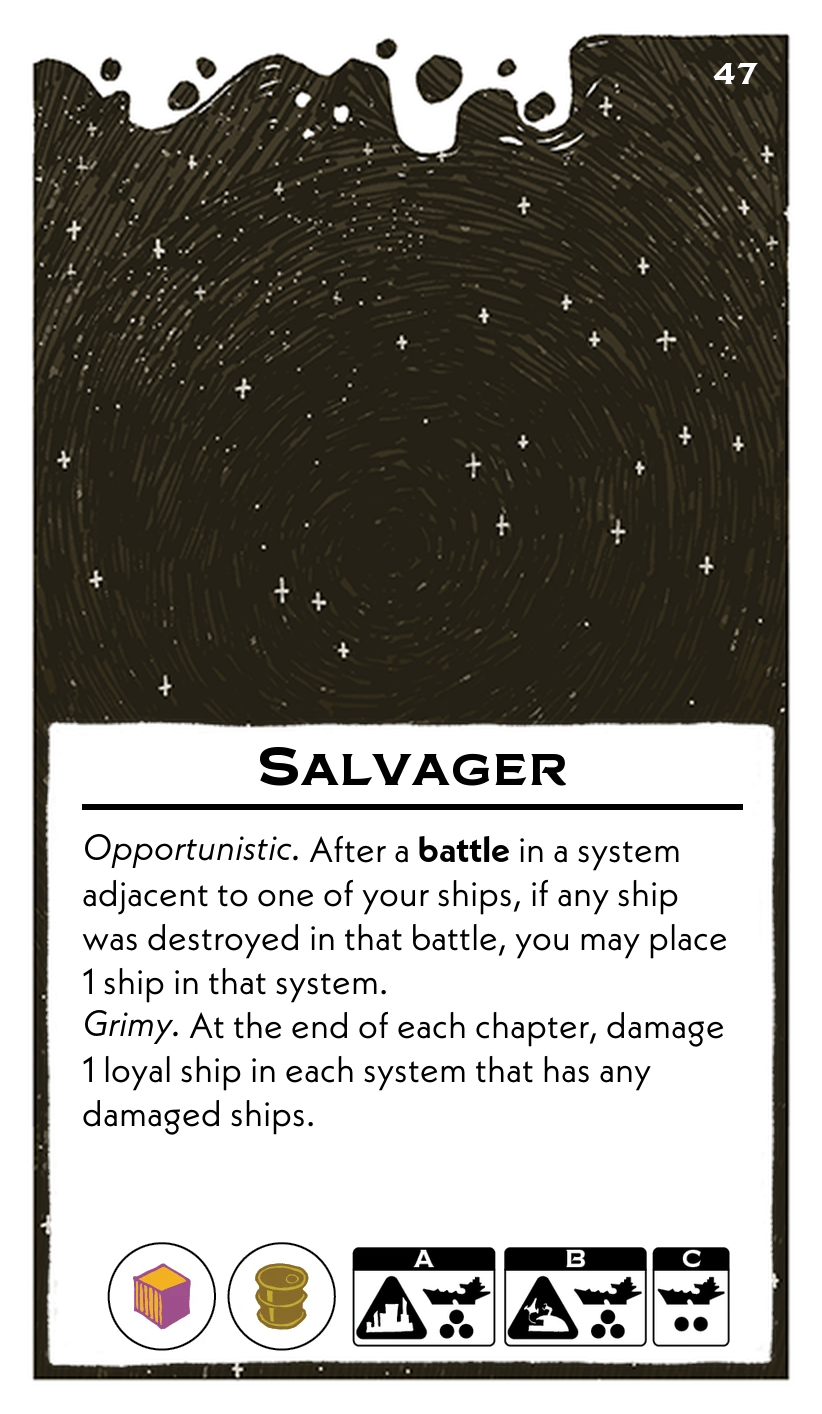
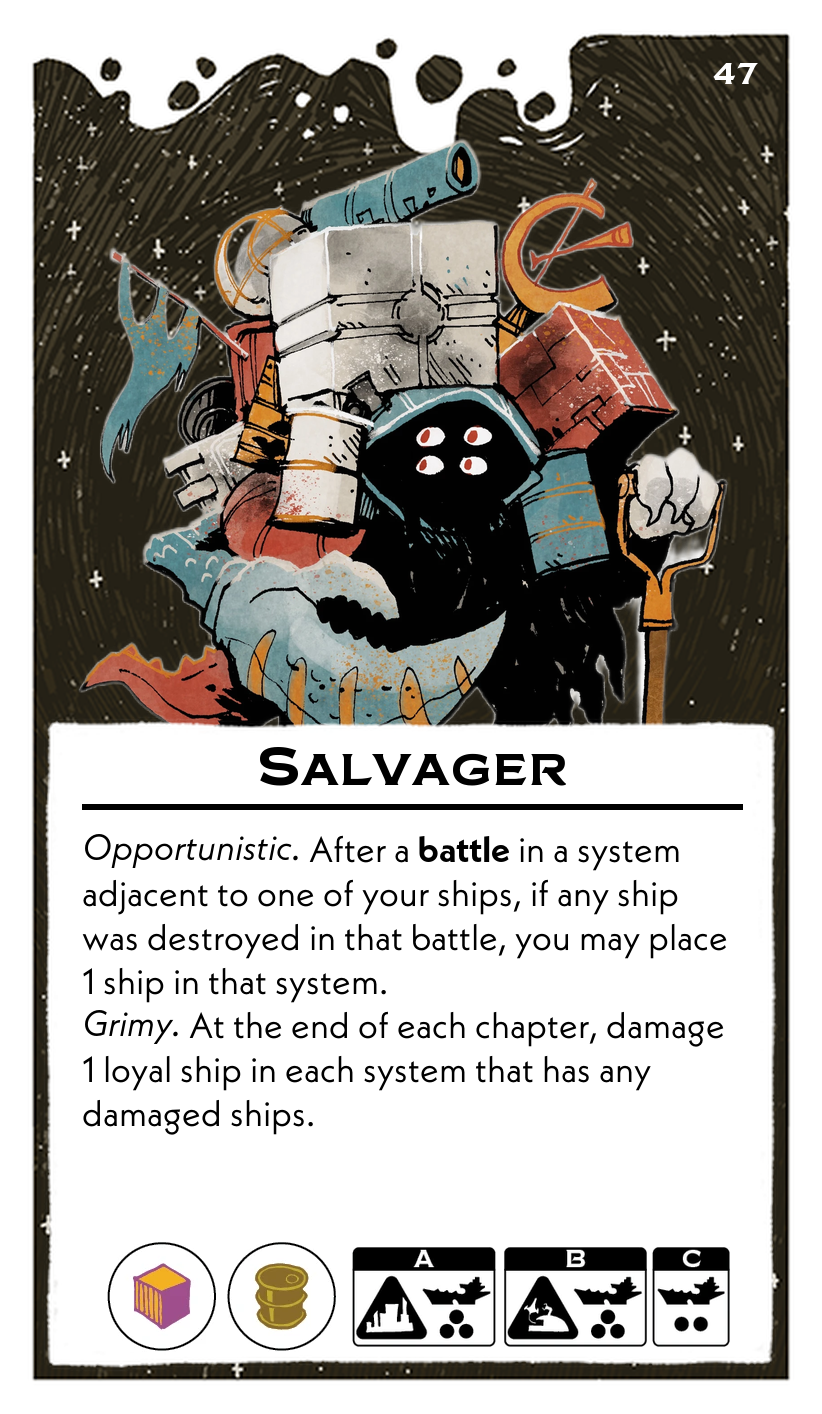
salvager iamge

Changed region(s): [[0.0912, 0.0934, 0.882, 0.529]]

diff --git a/scripts/leadersFormatted.py b/scripts/leadersFormatted.py
@@ -735,7 +735,9 @@ leaders = [
             "B": {"ships": 3, "building": "starport"},
             "C": {"ships": 2, "building": "None"}
         },
-        "body_font_size": 18
+        "body_font_size": 18,
+        "zoom": 1.25,
+        "boundary_shift": 0.25
     },
     {
         "name": "Regent",
